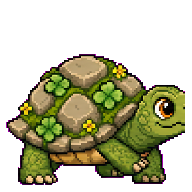
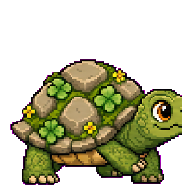
Corrige cortes nas sprites da Tartaruga (#39)

Changed region(s): [[0.0312, 0.2812, 0.9688, 0.9688]]

diff --git a/public/demo64/game-original.js b/public/demo64/game-original.js
@@ -175,9 +175,9 @@
     this.load.image('cursed-scarecrow-idle', A + 'creatures/campo/cursed_scarecrow/idle.png?v=small1');
     this.load.spritesheet('cursed-scarecrow-walk', A + 'creatures/campo/cursed_scarecrow/walk.png?v=small1', { frameWidth: 192, frameHeight: 192 });
     this.load.spritesheet('cursed-scarecrow-attack', A + 'creatures/campo/cursed_scarecrow/attack.png?v=small1', { frameWidth: 192, frameHeight: 192 });
-    this.load.image('meadow-turtle-idle', A + 'creatures/campo/meadow_turtle/idle.png?v=cartoon1');
-    this.load.spritesheet('meadow-turtle-walk', A + 'creatures/campo/meadow_turtle/walk.png?v=cartoon1', { frameWidth: 192, frameHeight: 192 });
-    this.load.spritesheet('meadow-turtle-attack', A + 'creatures/campo/meadow_turtle/attack.png?v=cartoon1', { frameWidth: 192, frameHeight: 192 });
+    this.load.image('meadow-turtle-idle', A + 'creatures/campo/meadow_turtle/idle.png?v=padded1');
+    this.load.spritesheet('meadow-turtle-walk', A + 'creatures/campo/meadow_turtle/walk.png?v=padded1', { frameWidth: 192, frameHeight: 192 });
+    this.load.spritesheet('meadow-turtle-attack', A + 'creatures/campo/meadow_turtle/attack.png?v=padded1', { frameWidth: 192, frameHeight: 192 });
     this.load.image('deer-king-idle', A + 'creatures/campo/deer_king/idle.png?v=cartoon1');
     this.load.image('deer-king-enraged', A + 'creatures/campo/deer_king/enraged.png?v=polish1');
     this.load.spritesheet('deer-king-walk', A + 'creatures/campo/deer_king/walk.png?v=walk3', { frameWidth: 256, frameHeight: 256 });
@@ -651,7 +651,7 @@
     {
       const cont = this.add.container(0, 0);
       const spr = this.add.sprite(0, 34, 'meadow-turtle-idle')
-        .setOrigin(0.5, 184 / 192).setScale(0.46);
+        .setOrigin(0.5, 184 / 192).setScale(0.50);
       const lbl = this.add.text(0, -54, 'Tartaruga do Prado', {
         fontFamily: 'sans-serif', fontSize: '12px', color: '#e8f5a4',
         stroke: '#000', strokeThickness: 3,

diff --git a/public/demo64/game.js b/public/demo64/game.js
@@ -1,7 +1,7 @@
 /* GameRPG loader */
 (function () {
   const script = document.createElement('script');
-  script.src = './game-original.js?v=turtle-small-v1';
+  script.src = './game-original.js?v=turtle-padded-v1';
   script.onerror = () => console.error('[GameRPG] Falha ao carregar o jogo principal.');
   document.head.appendChild(script);
 })();

diff --git a/public/demo64/index.html b/public/demo64/index.html
@@ -581,6 +581,6 @@ addEventListener('keydown', e => {
   sync();
 })();
 </script>
-<script src="game.js?v=turtle-small-v1"></script>
+<script src="game.js?v=turtle-padded-v1"></script>
 </body>
 </html>
